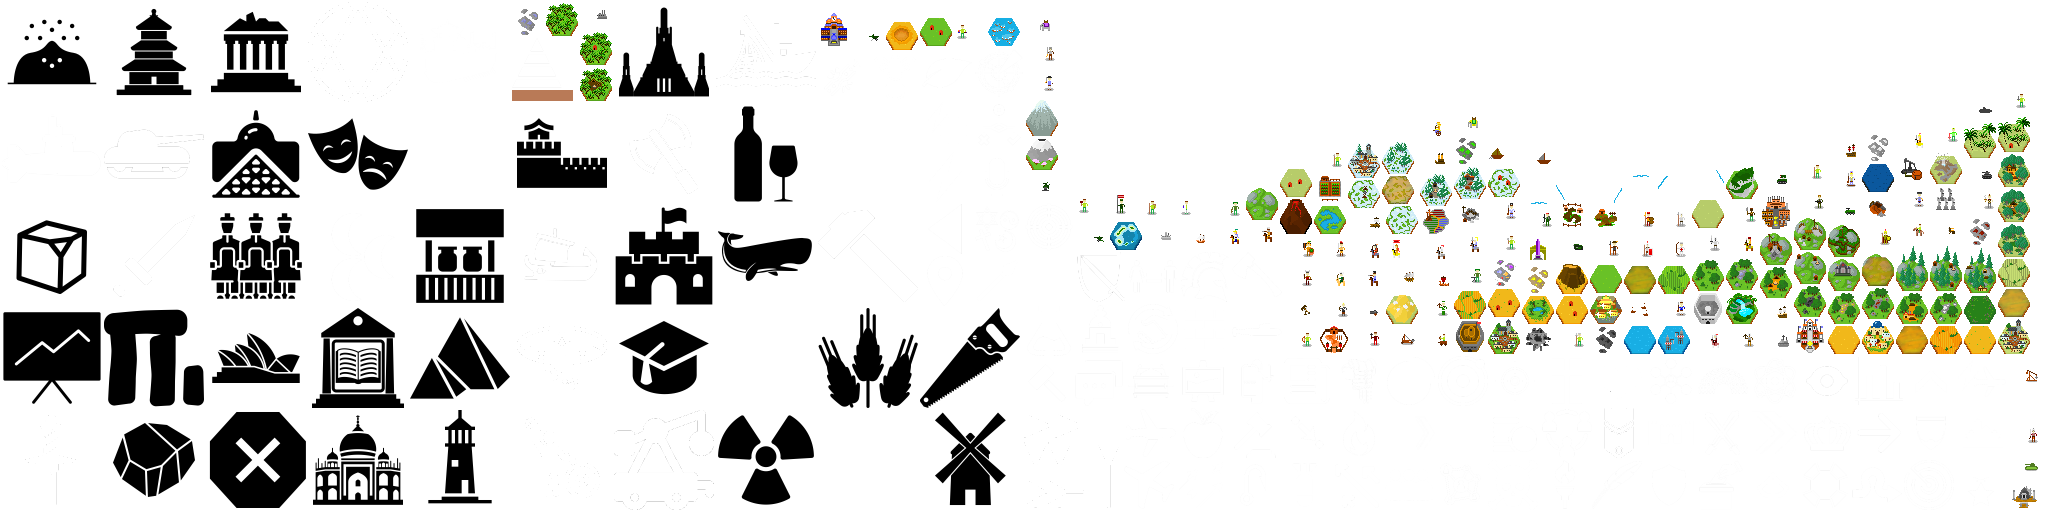
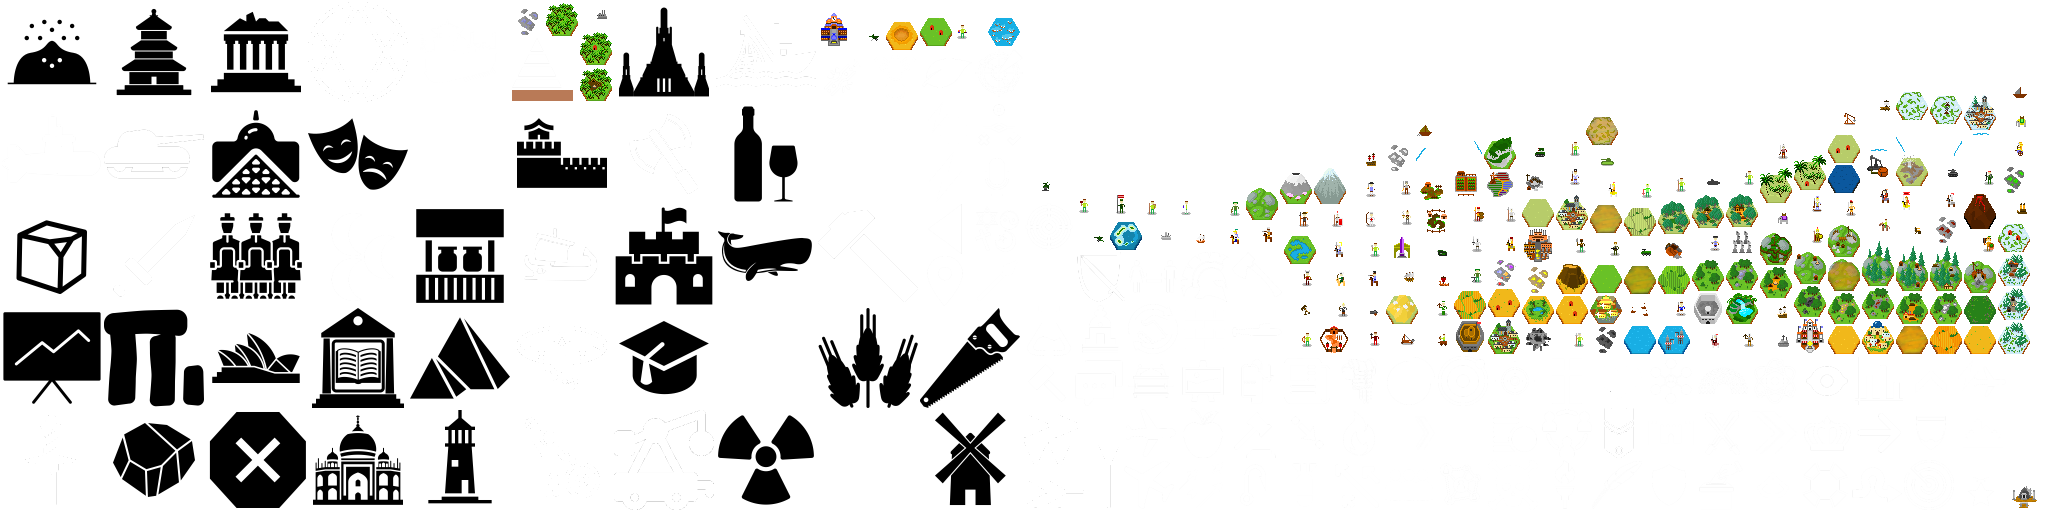
Can now display pixel resources on the map!

Changed region(s): [[0.625, 0.1875, 1.0, 0.6875], [0.5, 0.1875, 0.5312, 0.3438]]

diff --git a/core/src/com/unciv/ui/tilegroups/TileGroup.kt b/core/src/com/unciv/ui/tilegroups/TileGroup.kt
@@ -90,7 +90,7 @@ open class TileGroup(var tileInfo: TileInfo, var tileSetStrings:TileSetStrings) 
         this.addActor(cityButtonLayerGroup)
         this.addActor(circleCrosshairFogLayerGroup)
 
-        updateTileImage(false)
+        updateTileImage(null)
 
         addCircleImage()
         addFogImage(groupSize)
@@ -132,8 +132,9 @@ open class TileGroup(var tileInfo: TileInfo, var tileSetStrings:TileSetStrings) 
     }
 
 
-    fun getTileBaseImageLocations(isRevealed: Boolean): List<String>{
-        if (!isRevealed) return listOf(tileSetStrings.hexagon)
+    fun getTileBaseImageLocations(viewingCiv: CivilizationInfo?): List<String>{
+        if (viewingCiv==null) return listOf(tileSetStrings.hexagon)
+
         if (tileInfo.isCityCenter()) {
             val terrainAndCity = tileSetStrings.getCityTile(tileInfo.baseTerrain)
             if (ImageGetter.imageExists(terrainAndCity))
@@ -141,6 +142,7 @@ open class TileGroup(var tileInfo: TileInfo, var tileSetStrings:TileSetStrings) 
             if (ImageGetter.imageExists(tileSetStrings.cityTile))
                 return listOf(tileSetStrings.cityTile)
         }
+
         if (tileInfo.isNaturalWonder())
         {
             val naturalWonder = tileSetStrings.getTile(tileInfo.naturalWonder!!)
@@ -148,19 +150,32 @@ open class TileGroup(var tileInfo: TileInfo, var tileSetStrings:TileSetStrings) 
                 return listOf(naturalWonder)
         }
 
+
         val shouldShowImprovement = tileInfo.improvement!=null && UncivGame.Current.settings.showPixelImprovements
-        val baseTerrainTileLocation = tileSetStrings.getTile(tileInfo.baseTerrain)
+        val shouldShowResource = UncivGame.Current.settings.showPixelImprovements
+                && ((tileInfo.resource!=null && UncivGame.Current.viewEntireMapForDebug) || tileInfo.hasViewableResource(viewingCiv))
+        val baseTerrainTileLocation = tileSetStrings.getTile(tileInfo.baseTerrain) // e.g. Grassland
+
         if (tileInfo.terrainFeature != null) {
+            // e.g. Grassland+Forest
             val baseTerrainAndFeatureTileLocation = "$baseTerrainTileLocation+${tileInfo.terrainFeature}"
             if(shouldShowImprovement){
-                val basefeatureAndImprovementTileLocation = "$baseTerrainAndFeatureTileLocation+${tileInfo.improvement}"
-                if (ImageGetter.imageExists(basefeatureAndImprovementTileLocation))
-                    return listOf(basefeatureAndImprovementTileLocation)
+                // e.g. Grassland+Forest+Lumber mill
+                val baseFeatureAndImprovementTileLocation = "$baseTerrainAndFeatureTileLocation+${tileInfo.improvement}"
+                if (ImageGetter.imageExists(baseFeatureAndImprovementTileLocation))
+                    return listOf(baseFeatureAndImprovementTileLocation)
+            }
+            if(shouldShowResource){
+                // e.g. Grassland+Forest+Silver
+                val baseTerrainFeatureAndResourceLocation = "$baseTerrainAndFeatureTileLocation+${tileInfo.resource}"
+                if (ImageGetter.imageExists(baseTerrainFeatureAndResourceLocation))
+                    return listOf(baseTerrainFeatureAndResourceLocation)
             }
 
             if (ImageGetter.imageExists(baseTerrainAndFeatureTileLocation)) {
                 if(shouldShowImprovement){
                     val improvementImageLocation = tileSetStrings.getTile(tileInfo.improvement!!)
+                    // E.g. (Desert+Flood plains, Moai)
                     if(ImageGetter.imageExists(improvementImageLocation))
                         return listOf(baseTerrainAndFeatureTileLocation, improvementImageLocation)
                 }
@@ -168,7 +183,9 @@ open class TileGroup(var tileInfo: TileInfo, var tileSetStrings:TileSetStrings) 
             }
         }
 
+        // No terrain feature
         if(shouldShowImprovement){
+            // E.g. Grassland+Farm
             val baseTerrainAndImprovement  = "$baseTerrainTileLocation+${tileInfo.improvement}"
             if (ImageGetter.imageExists(baseTerrainAndImprovement))
                 return listOf(baseTerrainAndImprovement)
@@ -177,8 +194,16 @@ open class TileGroup(var tileInfo: TileInfo, var tileSetStrings:TileSetStrings) 
         if (ImageGetter.imageExists(baseTerrainTileLocation)){
             if(shouldShowImprovement){
                 val improvementImageLocation = tileSetStrings.getTile(tileInfo.improvement!!)
+                // E.g. (Desert, Mine)
                 if(ImageGetter.imageExists(improvementImageLocation))
                     return listOf(baseTerrainTileLocation, improvementImageLocation)
+            }
+
+            if(shouldShowResource){
+                // e.g. (Plains, Gems)
+                val resourceImageLocation = tileSetStrings.getTile(tileInfo.resource!!)
+                if (ImageGetter.imageExists(resourceImageLocation))
+                    return listOf(baseTerrainTileLocation, resourceImageLocation)
             }
             return listOf(baseTerrainTileLocation)
         }
@@ -195,8 +220,8 @@ open class TileGroup(var tileInfo: TileInfo, var tileSetStrings:TileSetStrings) 
         hexagonImage.y = -groupSize / 6
     }
 
-    private fun updateTileImage(isRevealed: Boolean) {
-        val tileBaseImageLocations = getTileBaseImageLocations(isRevealed)
+    private fun updateTileImage(viewingCiv: CivilizationInfo?) {
+        val tileBaseImageLocations = getTileBaseImageLocations(viewingCiv)
         val identifier = tileBaseImageLocations.joinToString(";")
         if (identifier == tileImagesIdentifier) return
 
@@ -230,7 +255,7 @@ open class TileGroup(var tileInfo: TileInfo, var tileSetStrings:TileSetStrings) 
         val tileIsViewable = viewingCiv == null || isViewable(viewingCiv)
         val showMilitaryUnit = viewingCiv == null || showMilitaryUnit(viewingCiv)
 
-        updateTileImage(true)
+        updateTileImage(viewingCiv)
         updateRivers(tileInfo.hasBottomRightRiver, tileInfo.hasBottomRiver, tileInfo.hasBottomLeftRiver)
         updateTerrainBaseImage()
         updateTerrainFeatureImage()

diff --git a/core/src/com/unciv/ui/tilegroups/TileSetStrings.kt b/core/src/com/unciv/ui/tilegroups/TileSetStrings.kt
@@ -24,6 +24,7 @@ class TileSetStrings {
     val waterUnit = unitsLocation+"WaterUnit"
 
     private val baseTerrainToTile = HashMap<String,String>()
+
     fun getTile(baseTerrain:String): String {
         if(!baseTerrainToTile.containsKey(baseTerrain))
             baseTerrainToTile[baseTerrain] = "$tilesLocation$baseTerrain"

diff --git a/core/src/com/unciv/models/metadata/GameSettings.kt b/core/src/com/unciv/models/metadata/GameSettings.kt
@@ -22,6 +22,7 @@ class GameSettings {
     var showMinimap: Boolean = true
     var showPixelUnits: Boolean = false
     var showPixelImprovements: Boolean = true
+    var showPixelResources: Boolean = true
     var nuclearWeaponEnabled = false
 
     var userId = ""
